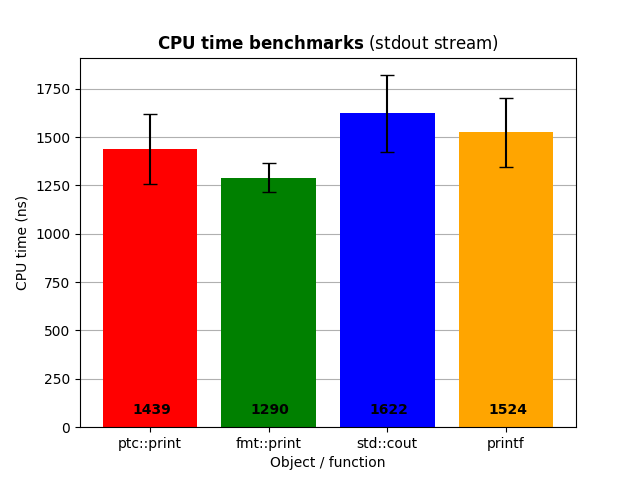
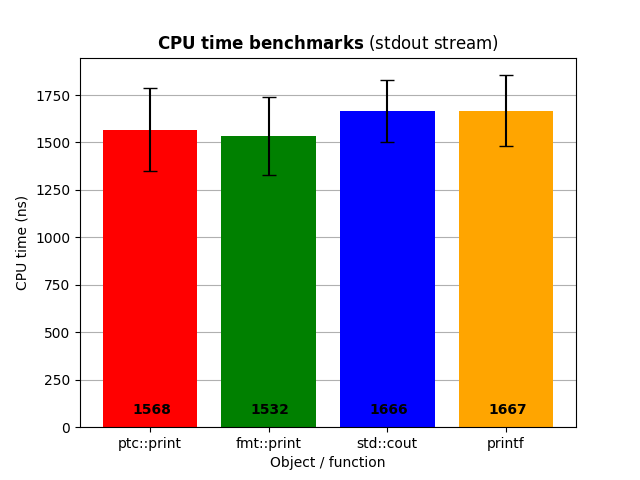
Benchmarking studies update.

diff --git a/README.md b/README.md
@@ -316,9 +316,19 @@ Benchmarking is performed using the [Google Benchmark](https://github.com/google
 ptc::print( "Testing", 123, "print", '!' );
 ```
 
-is repeated for around *300000* times and total execution time is registered. This latter step is repeated again for *100* times and each execution time is mediated with the others. Final mean value with the corresponding standard deviation is considered as the final result.
+is repeated for around *300000* times and total execution time is registered. This latter step is repeated again for *100* times and each execution time is mediated with the others. Final mean value with the corresponding standard deviation is considered as the final result. This script is compiled with `-O3 -O1 -falign-functions=32` flags
 
 - [analysis.py](https://github.com/JustWhit3/ptc-print/blob/main/studies/benchmarking/analysis.py): is used for data analysis and plots production, with comparison among each library benchmark results.
+
+List of functions / objects used for comparison are:
+
+- [`std::cout`](https://en.cppreference.com/w/cpp/io/cout)
+- [`printf`](https://m.cplusplus.com/reference/cstdio/printf/)
+- [`fmt::format`](https://pkg.go.dev/fmt) version 9.0.0
+
+> **NOTE**: comparisons are performed **only** on the same features of each library. For example: I am not comparing the whole `fmtlib` formatting library to mine, but simply the `fmt::print` function.
+
+Other suggestions are more than welcome.
 
 **Real time** benchmark results:
 
